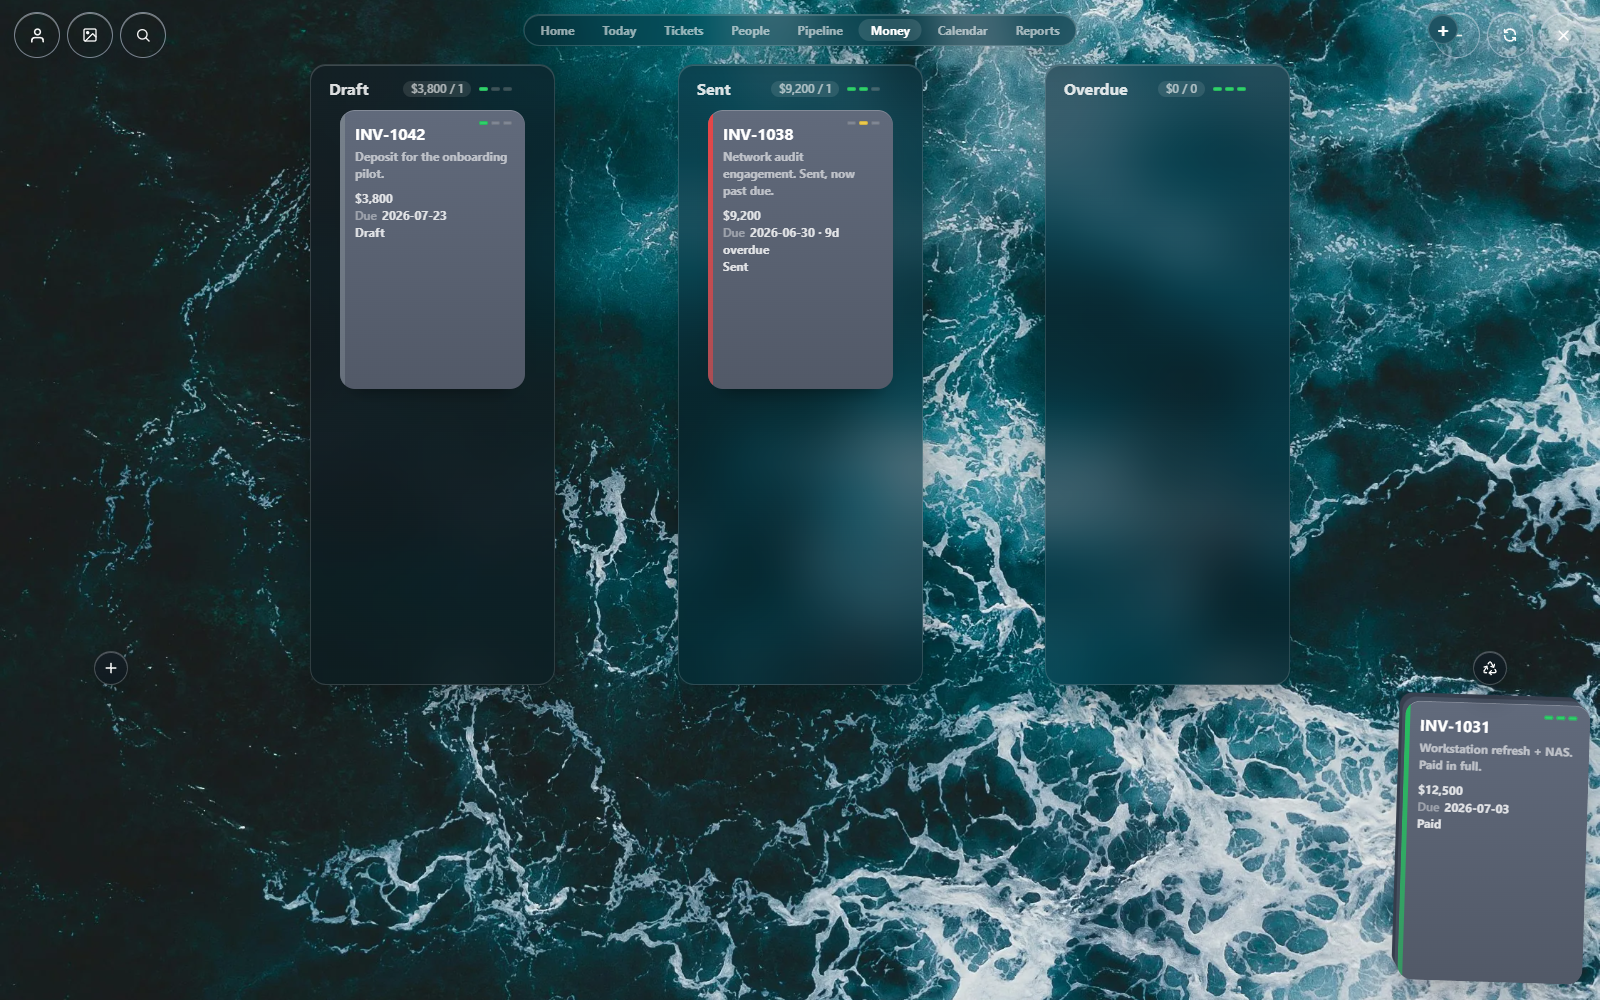
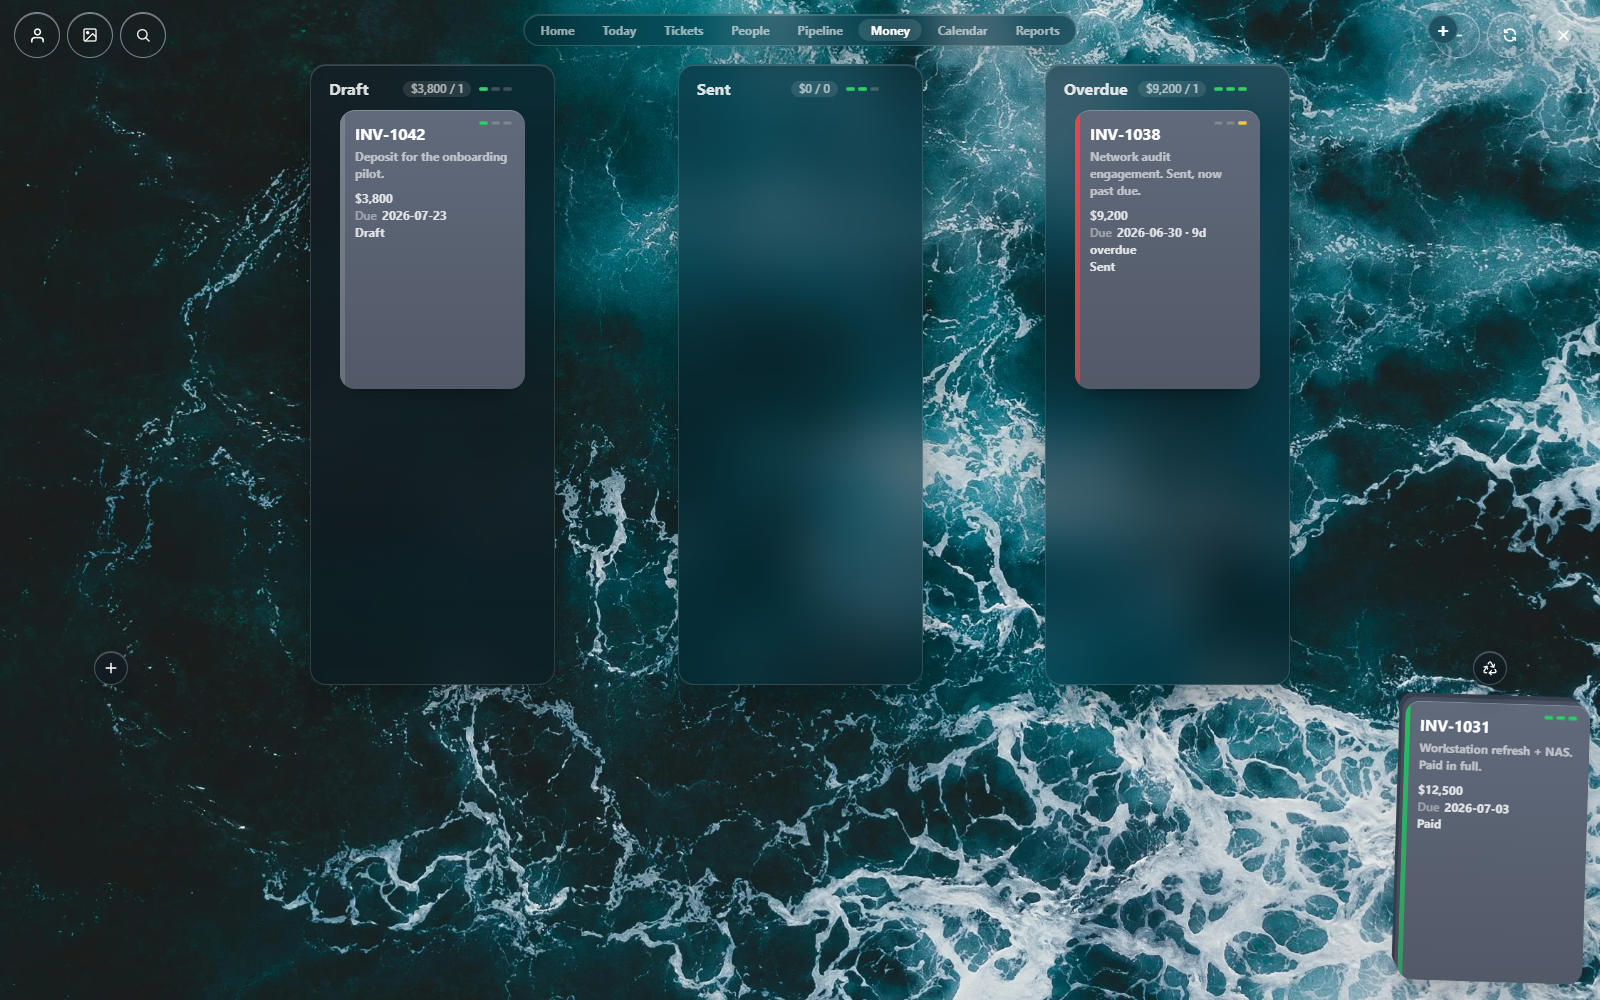
F5: state→bucket derivation — records land where their state says
card-system.js accepts config.stageOf(record): a derivation that outranks the
stored doc stage and the local stage map ("false" = explicitly unbucketed).
Money derives the bucket from the invoice's effective state — a sent invoice
past its due date is Overdue without waiting for the server sweep or a manual
drag; paid → the Paid pile. Pipeline derives from stage/state with won/lost
never bucketed (the Won pile / trash own those). Tickets keep the stored-stage
behavior.

After-shots: 06-money shows INV-1038 inside the Overdue bucket with its red
edge, lids reading Draft $3,800/1 · Sent $0/0 · Overdue $9,200/1, the Paid
pile in the corner; nothing seeded sits unbucketed unless truly unstaged.

Changed region(s): [[0.6562, 0.062, 0.8125, 0.403], [0.4375, 0.062, 0.5625, 0.403]]

diff --git a/dashboard/app/static/card-system.js b/dashboard/app/static/card-system.js
@@ -103,9 +103,20 @@ global.createCrmCardSystem = function createCrmCardSystem(config = {}) {
     if (!id || !fields || !Object.keys(fields).length) return;
     try { source?.update?.(id, fields); } catch {}
   };
+  // FIX_PASS_2 F5: a record whose state IMPLIES a stage lands in that bucket
+  // without a manual drag. config.stageOf(record) derives it (e.g. an invoice
+  // sent past its due date reads as Overdue even while its stored stage says
+  // "sent"); the stored doc stage and the local stage map are the fallbacks.
+  const configuredStageOf = typeof config.stageOf === "function" ? config.stageOf : null;
   const stageOf = (id) => {
     if (!zonesEnabled) return null;
-    const docStage = ticketById(id)?.stage;
+    const t = ticketById(id);
+    if (configuredStageOf && t) {
+      const derived = configuredStageOf(t);
+      if (STAGE_KEYS.includes(derived)) return derived;
+      if (derived === false) return null;   // explicit "not bucketed" (e.g. paid → the pile)
+    }
+    const docStage = t?.stage;
     if (STAGE_KEYS.includes(docStage)) return docStage;
     return id && STAGE_KEYS.includes(stageMap[id]) ? stageMap[id] : null;
   };

diff --git a/dashboard/app/static/money.js b/dashboard/app/static/money.js
@@ -154,9 +154,18 @@
     ],
   };
 
+  // FIX_PASS_2 F5: the bucket follows the invoice's DERIVED state — a sent
+  // invoice past its due date is Overdue without a drag; paid → the pile.
+  const invoiceBucket = (invoice) => {
+    const state = invoiceIntensity(invoice);
+    if (state === "paid") return false;
+    return ["draft", "sent", "overdue"].includes(state) ? state : null;
+  };
+
   window.createCrmCardSystem({
     apiName: "moneyPipeline",
     theater: "money",
+    stageOf: invoiceBucket,
     face: invoiceFace,
     source: invoiceSource,
     detail: window.invoiceDetail,

diff --git a/dashboard/app/static/pipeline.js b/dashboard/app/static/pipeline.js
@@ -132,9 +132,18 @@
     ],
   };
 
+  // FIX_PASS_2 F5: the bucket follows the deal's stage/state; a won or lost
+  // deal is never bucketed (it lives in the Won pile / trash instead).
+  const dealBucket = (deal) => {
+    if (isClosedDeal(deal)) return false;
+    const stage = String(valueOf(deal, "stage") || valueOf(deal, "state") || "").toLowerCase();
+    return ["lead", "qualified", "proposal", "negotiation"].includes(stage) ? stage : null;
+  };
+
   window.createCrmCardSystem({
     apiName: "dealPipeline",
     theater: "pipeline",
+    stageOf: dealBucket,
     face: dealFace,
     source: dealSource,
     detail: window.dealDetail,